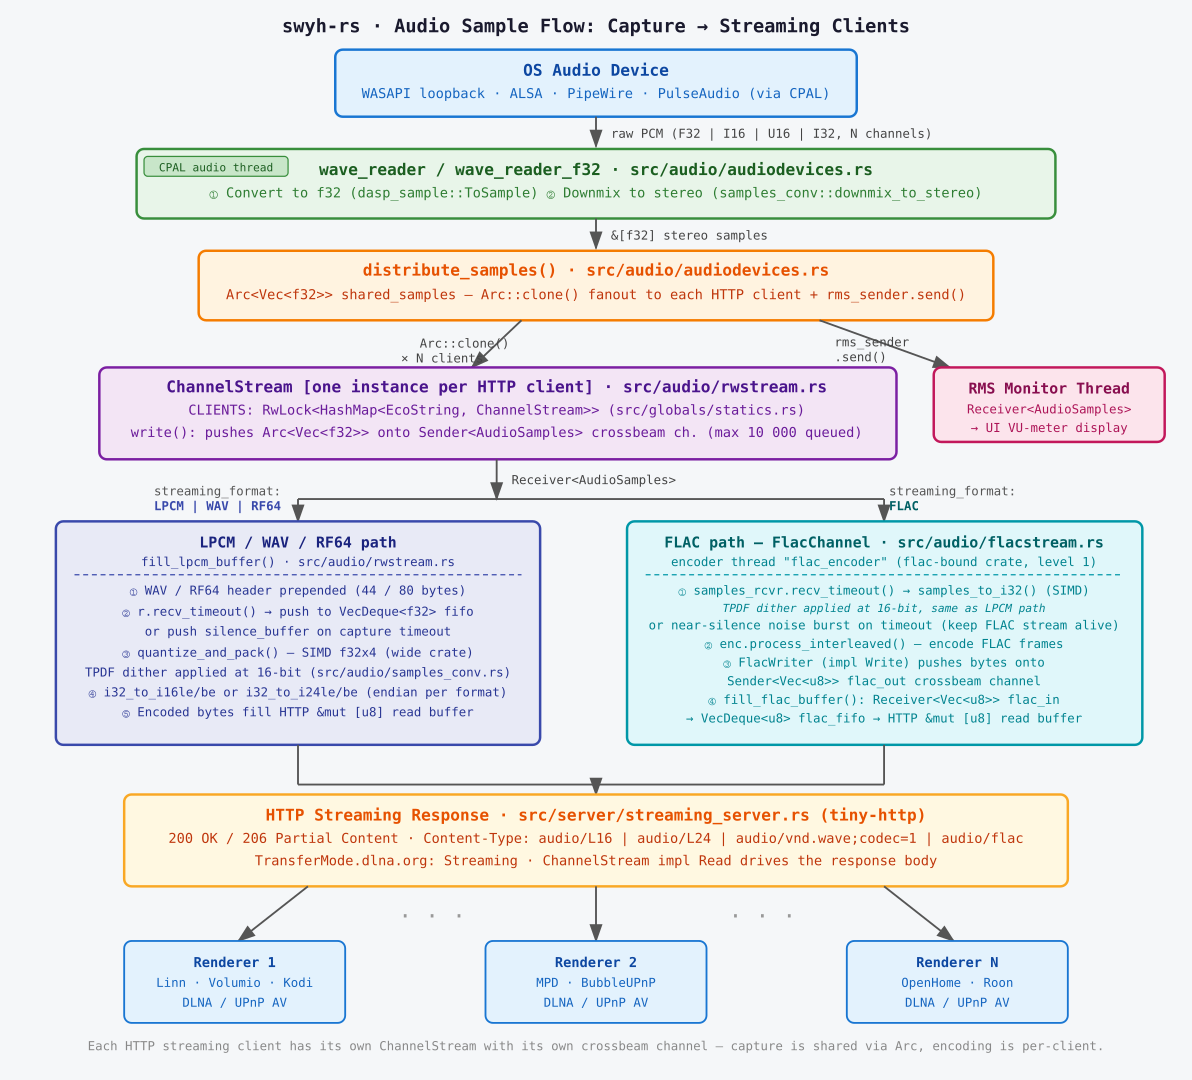
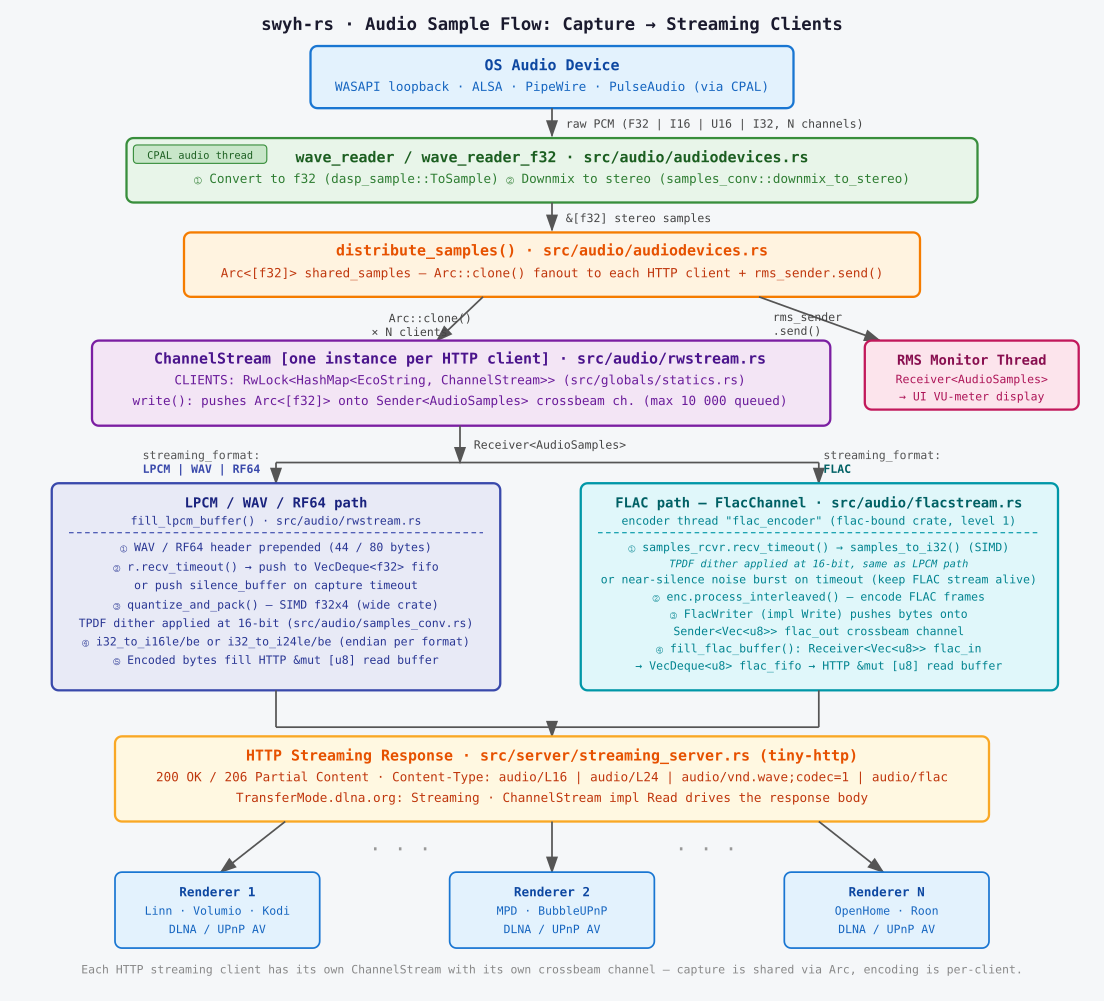
update audio flow schematic

diff --git a/src/ui/mainform.rs b/src/ui/mainform.rs
@@ -1438,7 +1438,7 @@ impl MainForm {
         } else {
             new_renderer.rend_ui.slider = None;
         }
-        // right-click hides this renderer's button (and slider, if any).
+        // right-click hides this renderer's button (and slider, if any)
         // fltk-rs runs the widget's built-in handle() first by default and ORs in
         // our result, which would fire the button's own play/stop callback on
         // FL_RELEASE before we ever get to swallow the event — flip that order.